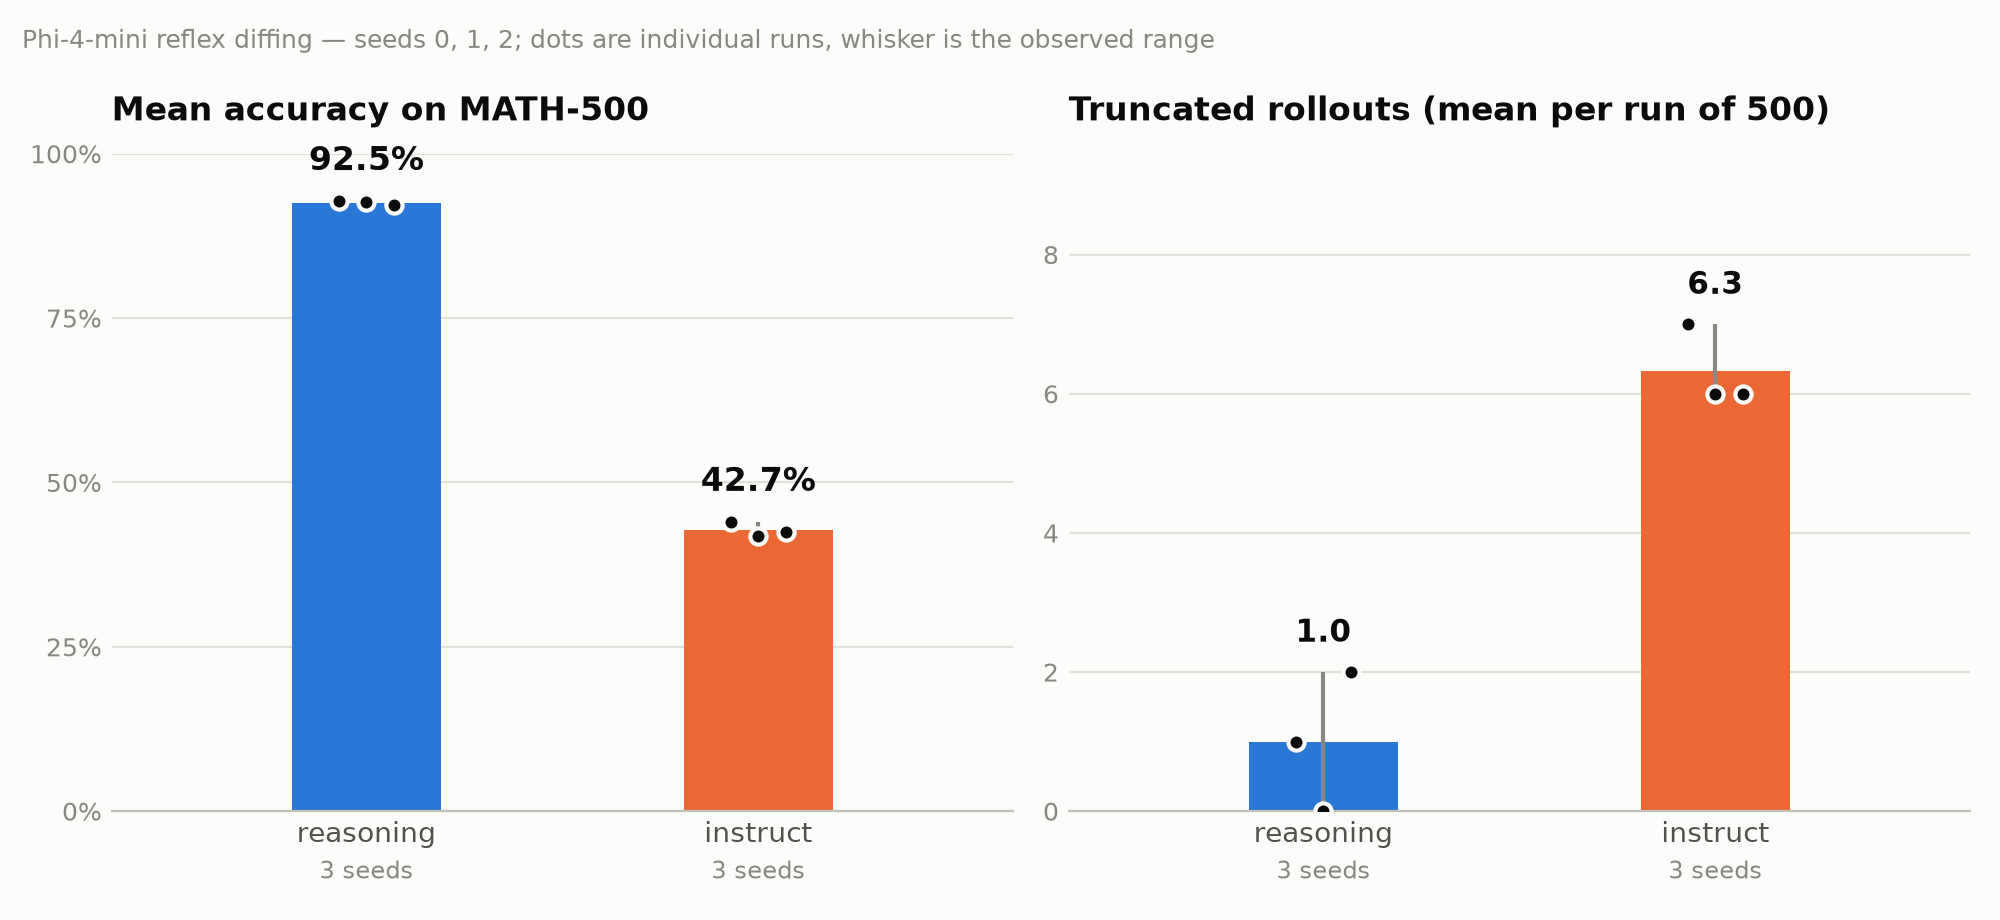
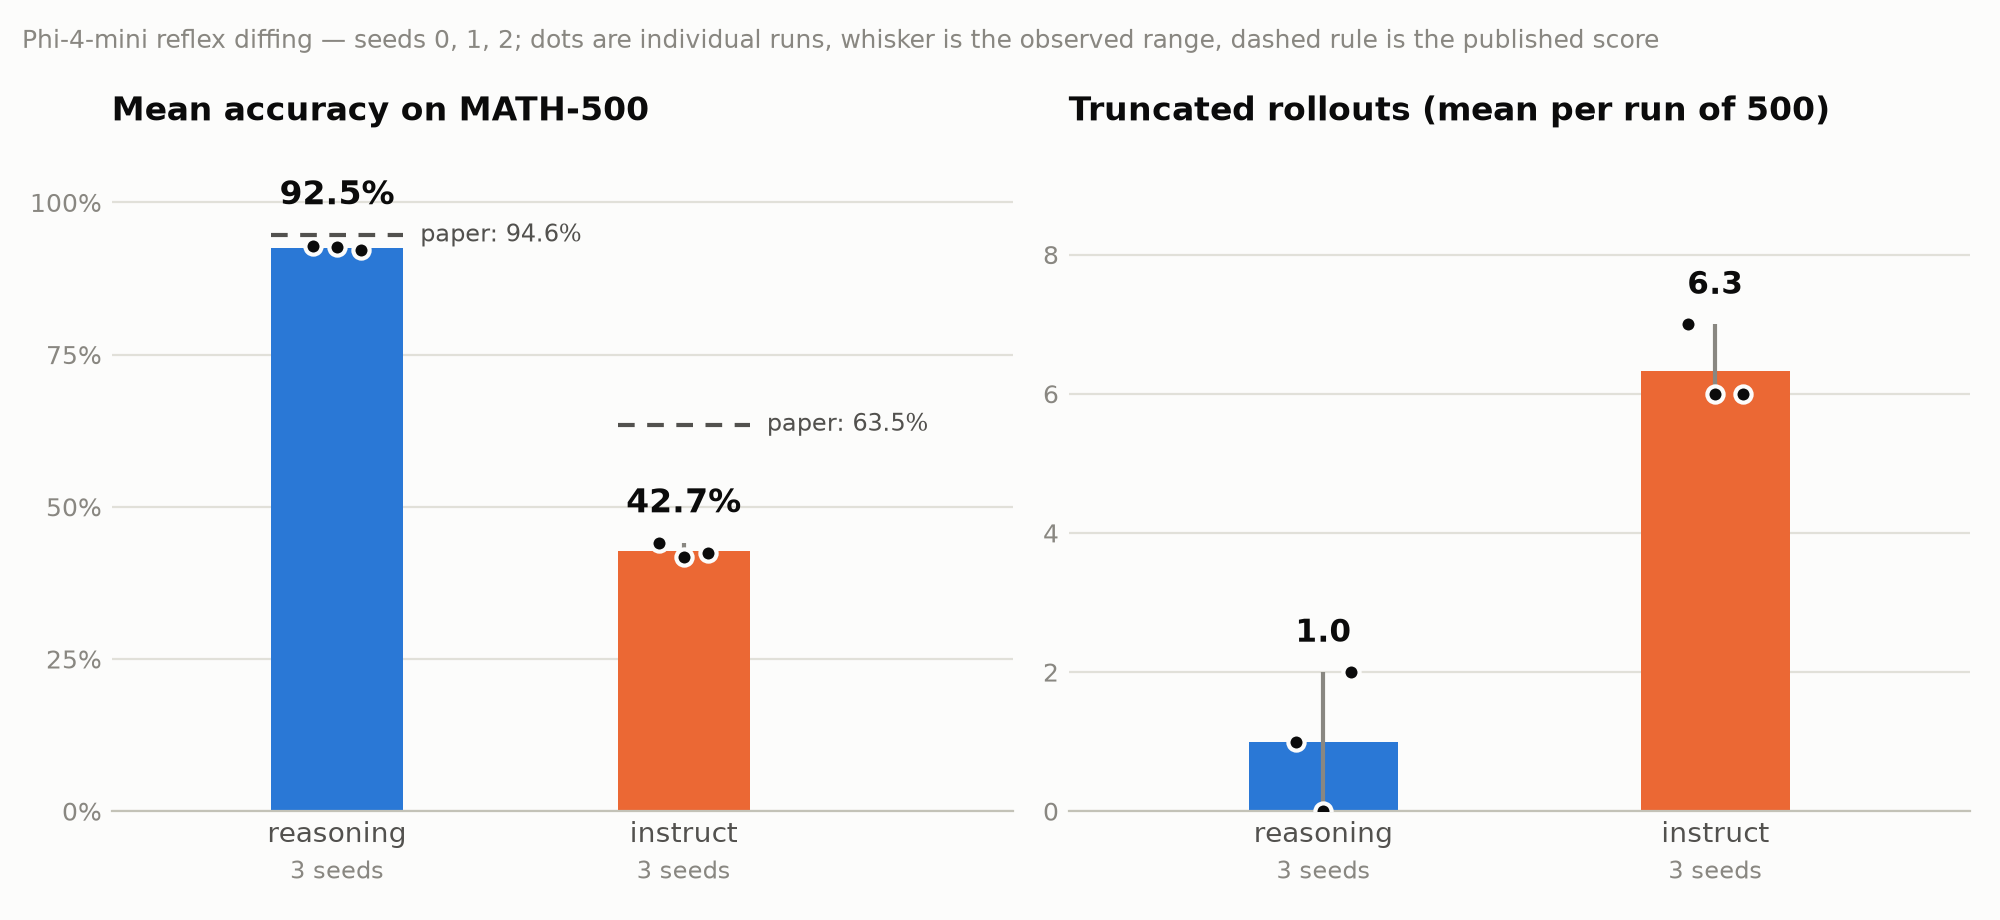
added plot to log

diff --git a/plot_accuracy.py b/plot_accuracy.py
@@ -32,6 +32,11 @@ GRADED_RE = re.compile(r"^rollouts_(?P<tag>.+?)_seed(?P<seed>\d+)_graded\.jsonl$
 PALETTE = ["#2a78d6", "#eb6834", "#1baf7a", "#eda100", "#e87ba4", "#008300"]
 TAG_ORDER = ["reasoning", "instruct"]  # preferred left-to-right; others append
 
+# Published MATH-500 scores to reproduce, drawn as a reference line on the
+# accuracy panel. Phi-4-Mini-Reasoning (arXiv:2504.21233) and Phi-4-Mini
+# (arXiv:2503.01743).
+PAPER_BASELINE = {"reasoning": 0.946, "instruct": 0.635}
+
 # Chart chrome (light surface).
 SURFACE = "#fcfcfb"
 INK = "#0b0b0b"
@@ -123,7 +128,7 @@ def spread(count, span):
     return [-span / 2 + span * i / (count - 1) for i in range(count)]
 
 
-def panel(ax, by_tag, colors, key, title, fmt, top_label_size=12):
+def panel(ax, by_tag, colors, key, title, fmt, top_label_size=12, reference=None):
     """One panel: mean of `key` per tag, with every seed's run overlaid.
 
     Both panels share this shape, so accuracy and truncation read as the same
@@ -136,7 +141,9 @@ def panel(ax, by_tag, colors, key, title, fmt, top_label_size=12):
     # The label offset is a constant share of the y-range, so the range has to
     # be settled before anything is drawn.
     peak = max((max(v) for v in runs.values() if v), default=0)
-    headroom = 1.0 if key == "accuracy" else max(peak * 1.35, 1)
+    # Accuracy tops out at 100% but gets a sliver of extra room so a value label
+    # bumped over a reference line still has somewhere to go.
+    headroom = 1.08 if key == "accuracy" else max(peak * 1.35, 1)
 
     ax.bar(range(len(tags)), means, width=0.38,
            color=[colors[t] for t in tags], zorder=2)
@@ -155,6 +162,19 @@ def panel(ax, by_tag, colors, key, title, fmt, top_label_size=12):
             [i + dx for dx in spread(len(values), 0.14)], values, s=34,
             color=INK, edgecolor=SURFACE, linewidth=1.5, zorder=4,
         )
+        # Published score as a recessive dashed rule over its own bar only, so
+        # it can't be read as applying to the other tag.
+        ref = (reference or {}).get(tag)
+        if ref is not None:
+            ax.hlines(ref, i - 0.19, i + 0.19, color=INK_SECONDARY,
+                      linewidth=1.5, linestyle=(0, (4, 3)), zorder=5)
+            ax.text(i + 0.24, ref, f"paper: {fmt(ref)}", ha="left", va="center",
+                    color=INK_SECONDARY, fontsize=8.5)
+            # Only step over the rule when it sits inside the label's own band;
+            # otherwise the value would float away from the bar it belongs to.
+            if top < ref < top + headroom * 0.09:
+                top = ref
+
         ax.text(
             i, top + headroom * 0.035, fmt(means[i]), ha="center", va="bottom",
             color=INK, fontsize=top_label_size, fontweight="bold",
@@ -168,7 +188,7 @@ def panel(ax, by_tag, colors, key, title, fmt, top_label_size=12):
         )
 
     ax.set_xticks(range(len(tags)), tags)
-    ax.set_xlim(-0.65, len(tags) - 0.35)
+    ax.set_xlim(-0.65, len(tags) - 0.05 if reference else len(tags) - 0.35)
     ax.set_ylim(0, headroom)
     if key == "accuracy":
         ax.set_yticks([0, 0.25, 0.5, 0.75, 1.0])
@@ -186,7 +206,7 @@ def render(by_tag, out_path):
     # No legend: both panels name the tags on their x-axis, so identity never
     # rests on color alone.
     panel(ax_acc, by_tag, colors, "accuracy", "Mean accuracy on MATH-500",
-          lambda v: f"{v:.1%}")
+          lambda v: f"{v:.1%}", reference=PAPER_BASELINE)
     panel(ax_trunc, by_tag, colors, "n_truncated",
           "Truncated rollouts (mean per run of 500)",
           lambda v: f"{v:.1f}", top_label_size=11)
@@ -195,7 +215,8 @@ def render(by_tag, out_path):
     fig.text(
         0.011, 0.955,
         f"Phi-4-mini reflex diffing — seeds {', '.join(map(str, seeds))}; "
-        "dots are individual runs, whisker is the observed range",
+        "dots are individual runs, whisker is the observed range, "
+        "dashed rule is the published score",
         color=MUTED, fontsize=9, va="center",
     )
 

diff --git a/LOG.md b/LOG.md
@@ -16,7 +16,21 @@ Since I used a wrong parameter, I circled back to reproducing the baseline.
 - Decision: Use the same generation parameters as in the technical report for consistency.    
 - Implemented grading using math-verify, as in the Phi-4-mini reasoning technical report.
 - Graded rollouts -> consistent with paper results for the reasoning model 
-- Risk: Suspected that  
+- Risk: Suspected that parsing failures are the problem 
     - tracked parsing failures and regraded -> not a problem
-- Read paper again, saw parameter mismatch (accidentally used higher temperature)
-    - -> running again with correct parameters.
+
+### July 21st:
+
+**Multi-seed baseline**:
+- Generated and graded on MATH 500 for three seeds for both models 
+
+![Mean accuracy per model tag over seeds 0-2, with truncated rollout counts](./figures/accuracy_by_tag.png)
+
+- Reasoning: 92.5% mean (92.2 / 92.6 / 92.8) vs. 94.6% in the paper -> close enough to call reproduced.
+- Instruct: 42.7% mean (41.8 / 42.4 / 44.0) vs. 63.5% in the paper -> **~21 point gap that needs
+  investigating** before the instruct rollouts can be used as a baseline.
+    - low spread between seeds -> likely not the reason
+    - potential reasons:
+        - grading error (the correct solution is there, but is not extracted by the grader)
+        - prompt template / chat formatting 
+        - wrong sample temperature (accidentaly used 0.8 instead of 0.6 from the paper). 